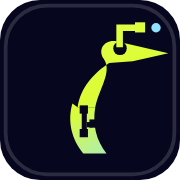
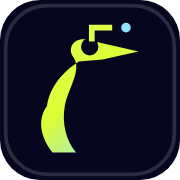
refactor(brand): 标识主体放大并简化细节
- 苍鹭剪影整体放大 1.26 倍，几乎撑满 48 画布，小尺寸下更有存在感
- 去掉颈部那组电路通道与焊盘 —— 细节太多会挤瘦主体，20px 下也只剩噪点
- 科技语言收敛为一处：头顶的直角走线天线 + 末端青色数据点
- 眼��放大为圆孔，头与颈的接缝抹平（原来有个几何台阶）
- 同步更新 favicon / 徽章 / 单色版 / og.png / apple-touch-icon.png

Changed region(s): [[0.2222, 0.1111, 0.9444, 0.8611]]

diff --git a/README.md b/README.md
@@ -49,12 +49,13 @@ heron 是一个**跑在本地、配置是文件的多 Agent 运行时**：一组
 
 图形语言：
 
-- **自然** —— 苍鹭的侧影：长喙、S 形颈、静立的身姿
-- **科技** —— 颈部一道负空间的电路通道（带焊盘与分支）、头顶一根直角走线的天线、
-  以及末端那枚分离的**数据点**（既是信号，也是苍鹭出手的瞬间）
+- **自然** —— 苍鹭的侧影：长喙、S 形颈、静立的身姿。主体放大到几乎撑满画布，
+  保证小尺寸下的辨识度
+- **科技** —— 头顶一根直角走线的**天线**，末端是一枚分离的**数据点**
+  （既是信号，也是苍鹭出手的瞬间）
 
 配色与站点一致：主体青柠 `#dcfd35`，天线的数据点用青 `#8fe3ff` 点缀。
-在 120 / 40 / 20px 三档下都核对过 —— 20px 时电路细节会融掉，但剪影与天线仍成立。
+在 120 / 40 / 20px 三档下都核对过 —— 20px 时天线会融成一个点，但剪影仍成立。
 
 > 图形用 SVG `mask` 挖负空间。**别删 `<mask>` 上的 `width`/`height`** ——
 > 缺了它们 mask 区域是 0×0，什么都渲染不出来（这个坑踩过一次）。
